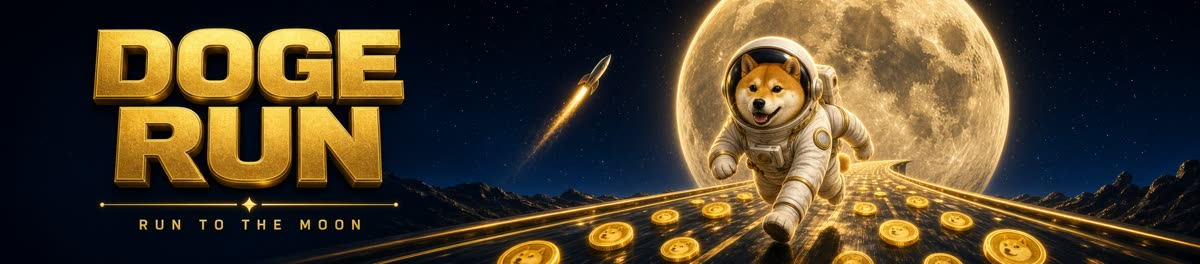
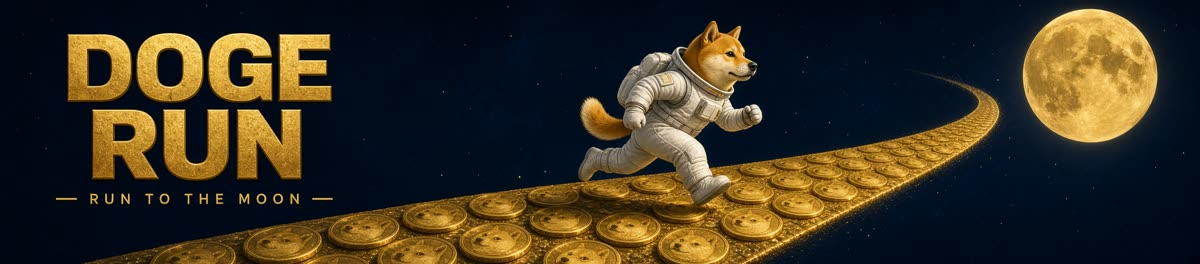
update ad

diff --git a/src/routes/__root.tsx b/src/routes/__root.tsx
@@ -31,13 +31,13 @@ export const Route = createRootRoute({
       { property: "og:description", content: "A golden doge in a space suit runs a coin road to the moon." },
       { property: "og:type", content: "x:game" },
       { property: "og:url", content: "https://dogerunlotis.xyz/" },
-      { property: "og:image", content: "https://dogerunlotis.xyz/og.jpg?v=3" },
+      { property: "og:image", content: "https://dogerunlotis.xyz/og.jpg?v=4" },
       { property: "og:image:width", content: "1200" },
       { property: "og:image:height", content: "630" },
       { name: "twitter:card", content: "summary_large_image" },
       { name: "twitter:title", content: APP_NAME },
       { name: "twitter:description", content: "A golden doge in a space suit runs a coin road to the moon." },
-      { name: "twitter:image", content: "https://dogerunlotis.xyz/og.jpg?v=3" },
+      { name: "twitter:image", content: "https://dogerunlotis.xyz/og.jpg?v=4" },
     ],
     links: [
       { rel: "icon", type: "image/svg+xml", href: "/favicon.svg" },
